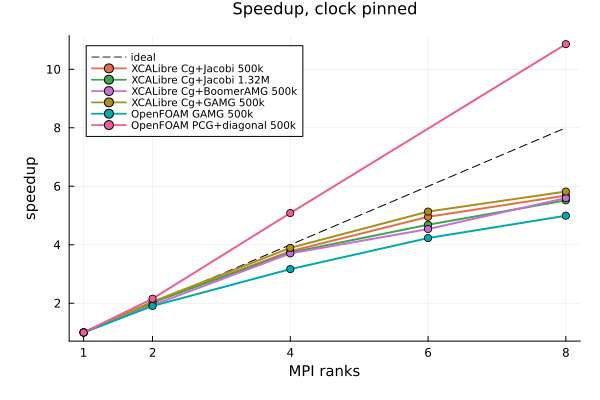
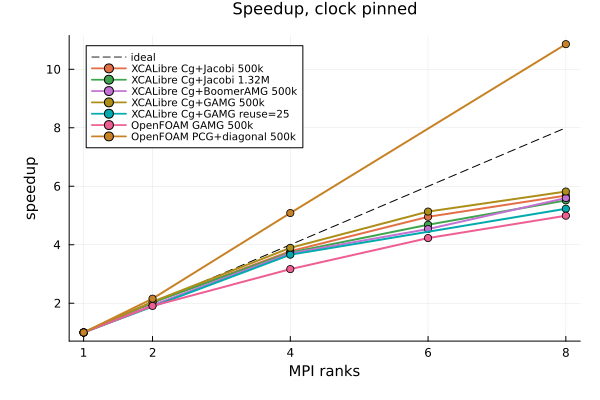
dev record: explain and close the GAMG gap to OpenFOAM
OpenFOAM's GAMG led because our setup dominates, not our cycles: PCSetUp is 2.9x
PCApply, and MatPtAPNumeric alone is 12.1 s of it. PETSc GAMG forms Galerkin coarse
operators by sparse triple product every solve; OpenFOAM's agglomeration multigrid
sums fine coefficients into agglomerated cells with cached addressing. We converge
in 2-3 iterations against their 6.7 and still lost (D34).

Stacking the freeze on the coefficient update closes it: GAMG(reuse=25) leads by
1.11x at four ranks, ties at eight, trails 4% at one (D35), and keeps rank
invariance at 0.50% spread against BoomerAMG's 240% (D36).

Cg+Jacobi remains fastest on this case and stays the documented default (D37).

diff --git a/dev/phaseRoadmap.md b/dev/phaseRoadmap.md
@@ -15,7 +15,7 @@ The distributed module becomes an ordinary, documented XCALibre feature: it inst
 - [x] **P1-M5 - distributed dependencies become optional** Decide, on a measurement rather than a principle, whether MPI and Metis stay hard dependencies. The cost to a serial user is measured first: install size, precompilation and load time. Only if that cost is material does the module's MPI surface move behind an extension. Exit: the measurement recorded and the decision taken, plus the refactor if it is warranted. Serves R4. CLOSED WITHOUT THE REFACTOR: the cost is 0.17 s of an 0.809 s load and 27 MB, so the dependencies stay and R4 is amended to a bounded measured cost (D18).
 - [x] **P1-M6 - documentation and messages** A distributed user-documentation page, a CHANGELOG entry for the feature, corrected diagnostic messages that point at the documentation, and the documented scope of what is and is not supported. Exit: documentation builds, scope matches the spec's non-requirements. Serves R10. DELIVERED: the distributed page now covers stock-binary requirements, the rank-uniform mesh call, `mpiexecjl`, the supported and unsupported scope, and what to expect of parallel performance; the CHANGELOG records the feature; the hypre and GPU-solve errors point at the documentation.
 
-- [ ] **P1-M7 - preconditioner API, informed by the scaling measurements** The distributed preconditioner API says what it does to the hierarchy, and the default is the one that wins. Open questions this milestone answers, in order: (i) `reuse` names a FREEZE, not a coefficient update (D28), and a user reading it expects the latter - rename it, and separate it from GAMG's `reuse_interpolation`, which means something different again; (ii) the default `reuse=10` leaves about 6% against `reuse=25` (D28) - retune or document; (iii) GAMG is now measured (D31, D32): best scaling curve of any configuration, same cost as BoomerAMG, a real coefficient-only update worth 2.69x, and far better rank invariance - make it the documented AMG choice and say why; (iv) OpenFOAM's GAMG beats our BoomerAMG by 1.24x to 1.45x (D30) - establish whether that is configuration or implementation. Also (v) AMG breaks rank invariance and Jacobi does not (D33) - document it, since a user comparing runs at different rank counts will otherwise read it as a bug. Exit: a measured recommendation for the distributed pressure preconditioner, the naming settled, and the docstrings matching the semantics. Serves R5, R10. Expected 4 steps.
+- [ ] **P1-M7 - preconditioner API, informed by the scaling measurements** The distributed preconditioner API says what it does to the hierarchy, and the default is the one that wins. Open questions this milestone answers, in order: (i) `reuse` names a FREEZE, not a coefficient update (D28), and a user reading it expects the latter - rename it, and separate it from GAMG's `reuse_interpolation`, which means something different again; (ii) the default `reuse=10` leaves about 6% against `reuse=25` (D28) - retune or document; (iii) SETTLED (D31-D37): `GAMG(reuse=25)` is the AMG to document - it closes the gap to OpenFOAM, whose lead came from our setup cost rather than our cycles (D34), and keeps rank invariance under the freeze (D36); `Cg()+Jacobi()` stays the default on cases of this conditioning (D37); (iv) OpenFOAM's GAMG beats our BoomerAMG by 1.24x to 1.45x (D30) - establish whether that is configuration or implementation. Also (v) AMG breaks rank invariance and Jacobi does not (D33) - document it, since a user comparing runs at different rank counts will otherwise read it as a bug. Exit: a measured recommendation for the distributed pressure preconditioner, the naming settled, and the docstrings matching the semantics. Serves R5, R10. Expected 4 steps.
 
 ## Flagged for later
 

diff --git a/dev/decisions.md b/dev/decisions.md
@@ -31,3 +31,7 @@
 - 2026-09-18 D31 GAMG has the best scaling curve of every configuration tested and costs the same as BoomerAMG - why: 102.6/97.4/85.6/72.8% at n=2/4/6/8 against BoomerAMG's 96.7/92.6/75.6/70.0 and Jacobi's 101.6/94.5/82.6/71.0, at 0.2749 s/iter against BoomerAMG's 0.2744 at eight ranks; it is still 1.46x slower in absolute terms than Cg+Jacobi on this case
 - 2026-09-18 D32 the coefficient-only update is worth 2.69x, more than BoomerAMG's freeze buys, and without the staleness - why: GAMG costs 0.4108 s/iter at four ranks with `reuse_interpolation` on and 1.1060 with it off, against BoomerAMG's 2.0x from freezing (0.8416 at reuse=1 to 0.4216 at reuse=10), so keeping the hierarchy and recomputing RAP beats both rebuilding and freezing
 - 2026-09-18 D33 AMG breaks rank invariance and Jacobi does not, which is a documented consequence rather than a defect - why: after 100 SIMPLE iterations the pressure residual spans 2.4x across rank counts under BoomerAMG (7.85e-5 to 1.89e-4) and 0.3% under GAMG, against agreement to 15 significant figures under Jacobi, because an AMG hierarchy is built from the local partition and the partition changes with rank count
+- 2026-09-18 D34 OpenFOAM's GAMG beats ours because our SETUP dominates, not our cycles - why: at one rank `PCSetUp` costs 26.39 s against `PCApply`'s 9.23 s, 2.9x, with `MatPtAPNumeric` alone at 12.11 s; PETSc GAMG forms Galerkin coarse operators by sparse triple product every solve while OpenFOAM's agglomeration multigrid sums fine coefficients into agglomerated cells with cached addressing, so their whole solve costs less than our setup, even though we converge in 2-3 iterations against their 6.7
+- 2026-09-18 D35 stacking the freeze on the coefficient update closes the gap to OpenFOAM - why: `GAMG(reuse=25)` gives 1.1065/0.3023/0.2115 s/iter at n=1/4/8 against OpenFOAM GAMG's 1.0620/0.3354/0.2127, so we lead by 1.11x at four ranks, tie at eight and trail 4% at one; the freeze is worth 1.30x to 1.42x because it skips the `PCSetUp` that was 31% of runtime
+- 2026-09-18 D36 GAMG keeps its rank invariance under the freeze, unlike BoomerAMG - why: the pressure residual spread across rank counts is 0.50% with `reuse=25` against 0.3% unfrozen and 240% for BoomerAMG, so the freeze costs almost nothing in reproducibility here
+- 2026-09-18 D37 `Cg()+Jacobi()` remains the fastest configuration on this case and stays the documented default; `GAMG(reuse=25)` is the AMG to recommend - why: Jacobi is 0.1877 s/iter at eight ranks against frozen GAMG's 0.2115, 11% faster, and 500k cells of laminar BFS is too well conditioned for any AMG setup to amortise; AMG's case must be made on a stiffer problem
